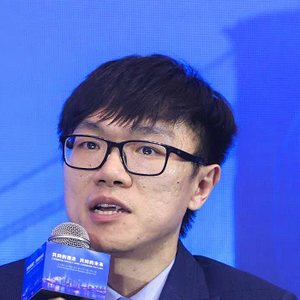
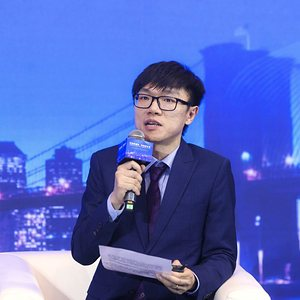
Zoom out homepage headshot to full panel framing
Use Ken-supplied 1086×725 panel photo with a face-centred full-height
square crop (218, 0, 943, 725) so the circle shows shoulders, mic, and
backdrop — not the prior tight Scholar face crop.

diff --git a/scripts/headshot/process.py b/scripts/headshot/process.py
@@ -6,11 +6,11 @@ resize, encode. No generative edits.
 
 The live Scholar CDN only serves up to 256×171 (medium_photo). That file is
 byte-identical (MAE ≈ 3.5/255) to a Lanczos downscale of
-`_source/ken-panel-headshot-raw.jpg`, so we render from the full-res raw and
+`_source/ken-panel-headshot-full-2026-10-12.jpg`, so we render from the full-res raw and
 keep the Scholar downloads in `_source/` for provenance.
 
 Usage:
-    python3 scripts/headshot/process.py [_source/ken-panel-headshot-raw.jpg]
+    python3 scripts/headshot/process.py [_source/ken-panel-headshot-full-2026-10-12.jpg]
 
 Writes public/headshot/headshot-square-{1x,2x}.{avif,webp,jpg}.
 See docs/headshot/TREATMENT.md.
@@ -25,12 +25,12 @@ import numpy as np
 from PIL import Image, ImageFilter
 
 ROOT = Path(__file__).resolve().parents[2]
-SRC = Path(sys.argv[1]) if len(sys.argv) > 1 else ROOT / "_source/ken-panel-headshot-raw.jpg"
+SRC = Path(sys.argv[1]) if len(sys.argv) > 1 else ROOT / "_source/ken-panel-headshot-full-2026-10-12.jpg"
 OUT = ROOT / "public/headshot"
 
-# Face-centred square (source pixels). Matches the prior circle hero crop.
+# Face-centred square (source pixels). Full-height zoom-out on 2026-10-12 panel.
 CROPS = {
-    "square": (565, 110, 915, 460),  # 350 × 350 (~17% zoom-out from 300)
+    "square": (218, 0, 943, 725),  # 725 × 725 full-height panel (zoomed-out torso/mic)
 }
 SIZES = {
     "square": {"1x": (160, 160), "2x": (300, 300)},

diff --git a/docs/headshot/TREATMENT.md b/docs/headshot/TREATMENT.md
@@ -5,27 +5,25 @@ face retouching.
 
 ## Source
 
-- **Current (restored 2026-10-12):** full-res panel
-  `_source/ken-panel-headshot-raw.jpg` (1280×854) with face-centred
-  crop `(565, 110, 915, 460)` → 350×350 (~17% zoom-out from the prior
-  Scholar-matched 300×300 box at `(590, 135, 890, 435)`).
-- Google Scholar profile downloads (provenance; refreshed from CDN):
+- **Current (2026-10-12):** user-supplied full panel
+  `_source/ken-panel-headshot-full-2026-10-12.jpg` (1086×725) with face-centred
+  full-height square crop `(218, 0, 943, 725)` → 725×725 (zoomed out vs prior
+  Scholar-matched tight face crops — shows shoulders, mic, white chair, blue
+  cityscape backdrop).
+- Prior panel raw (kept; not in pipeline):
+  `_source/ken-panel-headshot-raw.jpg` (1280×854), last crop
+  `(565, 110, 915, 460)` / 350×350 (~17% zoom-out from Scholar 300×300).
+- Google Scholar profile downloads (provenance):
   - `_source/ken-scholar-profile-view.jpg` — `view_photo`
   - `_source/ken-scholar-profile-medium.jpg` — `medium_photo`
 - Scholar profile: https://scholar.google.com/citations?user=s_domssAAAAJ&hl=en
-- Scholar CDN:
-  - https://scholar.googleusercontent.com/citations?view_op=view_photo&user=s_domssAAAAJ&citpid=10
-  - https://scholar.googleusercontent.com/citations?view_op=medium_photo&user=s_domssAAAAJ&citpid=10
-
-The Scholar `medium_photo` is effectively a Lanczos downscale of the full-res
-raw (MAE ≈ 3.5 / 255), so outputs are rendered from the raw file for sharpness
-with a slightly wider framing than Scholar’s medium_photo zoom.
 
 ### Unused (kept on disk; not in the pipeline)
 
 - `_source/ken-couple-headshot-user-crop.jpg` — Ken-supplied crop (PR #120)
 - `_source/ken-couple-headshot-face-square.jpg` — auto face square (PR #119)
 - `_source/ken-couple-headshot-raw.jpg` — couple selfie raw
+- `_source/ken-panel-headshot-raw.jpg` — earlier panel raw (Scholar-matched)
 
 ## Reproduce
 
@@ -38,8 +36,8 @@ python3 scripts/headshot/process.py path/to/original.jpg
 
 1. Gentle grade (warm R×1.03 / B×0.97, contrast ×1.04, +2 lift). Backdrop is
    left as photographed — same look as Scholar, not a teal-bokeh mask.
-2. Face-centred square crop `(565, 110, 915, 460)` → 350×350 (~17% zoom-out
-   from prior Scholar-matched `(590, 135, 890, 435)` / 300×300).
+2. Face-centred square crop `(218, 0, 943, 725)` → 725×725 (full image height;
+   face ~horizontal centre, upper third — torso, mic, notes, chair visible).
 3. Lanczos resize + light unsharp (r 0.8, 35%, threshold 2).
 4. Encode JPEG q84 progressive, WebP q80 m6, AVIF q60 speed 4.
 
